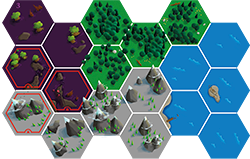
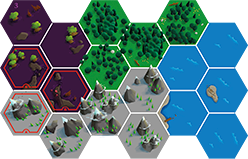
board pieces displaying; edited imgs to be identical pixel sizes

diff --git a/src/components/PlayingBoard.js b/src/components/PlayingBoard.js
@@ -1,4 +1,4 @@
-import React, { useEffect } from "react";
+import React, { useEffect, useRef } from "react";
 import { useSelector } from "react-redux";
 
 const canvasId = "cryptid-board-canvas"
@@ -7,37 +7,55 @@ export default function PlayingBoard() {
 
     const mapPeices = useSelector(s => s.board.mapChunks)
     let hexes = useSelector(s => s.board.hexes)
+    const canvasRef = useRef(null)
 
     // drawBoard
-    useEffect(function() {
-        const canvas = document.getElementById(`#${canvasId}`)
-        if (canvas){
-            const ctx = canvas.getContext('2d'),
-                H = parseFloat(canvas.getAttribute("height")),
-                W = parseFloat(canvas.getAttribute("width")),   
-                STROKE_STYLE = "black",
-                FILL_STYLE = "black",
-                FONT = {
-                    size: 40,
-                    family: "courier",
-                    bold: true
-                }
-    
-            ctx.strokeStyle = STROKE_STYLE
-            ctx.fillStyle = FILL_STYLE
-            ctx.font = `${FONT.bold ? 'bold ' : ''}${FONT.size}px ${FONT.family}`
+    useEffect(function () {
+        if (canvasRef.current) {
+            const ctx = canvasRef.current.getContext('2d')
+            const H = parseFloat(canvasRef.current.getAttribute("height"))
+            const W = parseFloat(canvasRef.current.getAttribute("width"))
+                // STROKE_STYLE = "black",
+                // FILL_STYLE = "black",
+                // FONT = {
+                //     size: 40,
+                //     family: "courier",
+                //     bold: true
+                // }
 
+            // ctx.strokeStyle = STROKE_STYLE
+            // ctx.fillStyle = FILL_STYLE
+            // ctx.font = `${FONT.bold ? 'bold ' : ''}${FONT.size}px ${FONT.family}`
 
+            ctx.clearRect(0, 0, W, H)
 
-            // LEFT OFF: loop through each map peice and...
-                // use the canvas function for drawing images to draw each one
+            let examplePiece = {
+                "id": 0,
+                "placed": 0,
+                "rotated": false,
+                "image": "/static/media/0.138ff576c5fff6cb5eda.png"
+            }
+
+            // loop for each map chunk
+            mapPeices.forEach((peice, i) => {
+                let chunkImg = new Image()
+                chunkImg.src = peice.image
+                // get offset values
+                let dx = (peice.placed % 2) * chunkImg.width - (peice.placed % 2) * 10
+                let dy = Math.floor(peice.placed / 2) * chunkImg.height - (Math.floor(peice.placed / 2) * 20)
+
+                // TODO: check if it's rotated
+                // canvas.drawImage?
+                ctx.drawImage(chunkImg, dx, dy)
+            })
+
         }
 
-    }, [hexes])
+    }, [hexes, mapPeices])
 
     return (
         <div className="PlayingBoard">
-            <canvas id={canvasId} height="600" width="800" >
+            <canvas ref={canvasRef} id={canvasId} height="600" width="800" >
                 Oops. It seems that the canvas broke. :(
             </canvas>
         </div>

diff --git a/readme.md b/readme.md
@@ -20,7 +20,7 @@ My wife and I enjoy the board game “Cryptid,” but it can only be played with
   - where are the structures placed?
   - which colors are playing?
   - which colors are bots, and which are people?
-- the `play screen` uses canvas to display the board, and structures
+- the `play screen` uses html5 canvas to display the board and structures
 - once the player starts the game, a new 
 
 ---
@@ -33,14 +33,15 @@ My wife and I enjoy the board game “Cryptid,” but it can only be played with
 
 ## Todo
 ### "play game" functionality
-- using Canvas, display:
-  - board pieces
-  - structures
+- display board pieces
+  - ~~positon~~
+  - rotation
+- display structures
+- add custom menu on click
 - make no/yes markers in some art program
 - display
   - no markers
   - yes markers
-- add custom menu on click
 
 ### other
 - test, test, test
